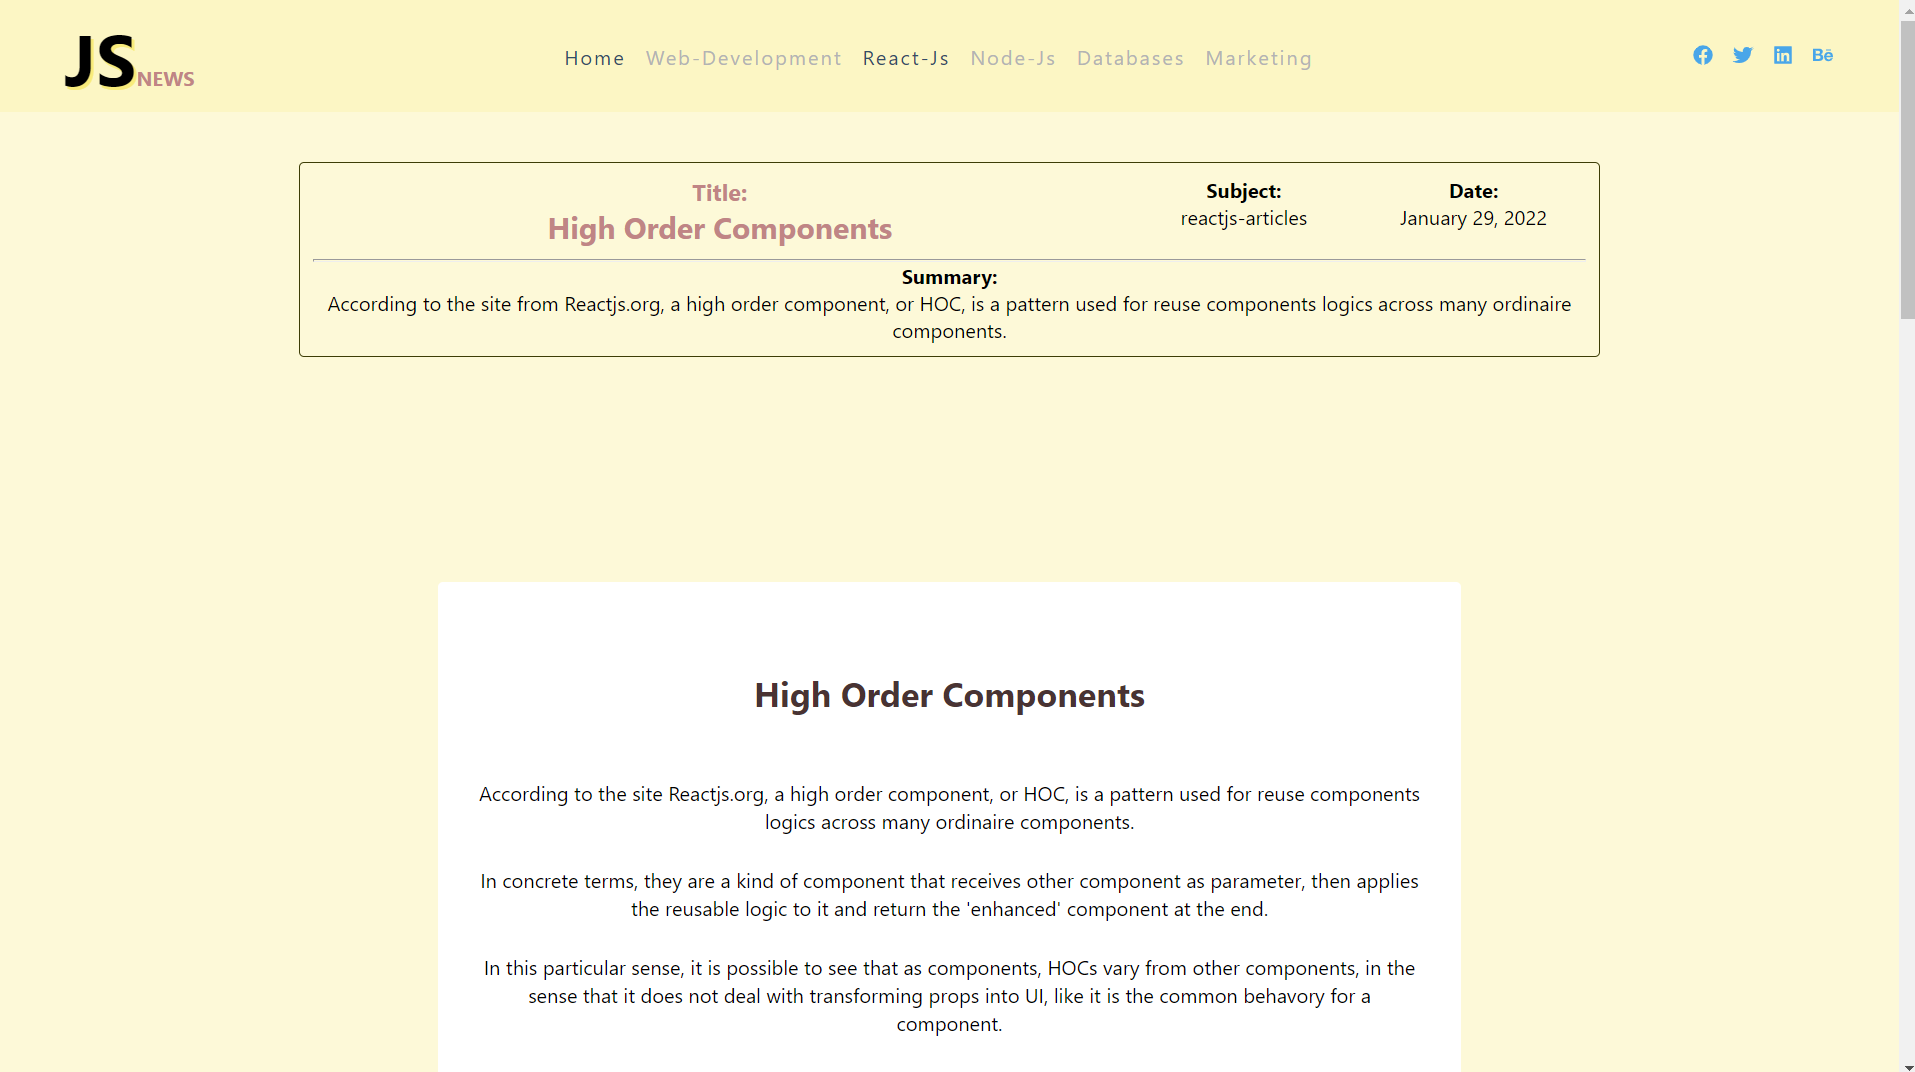
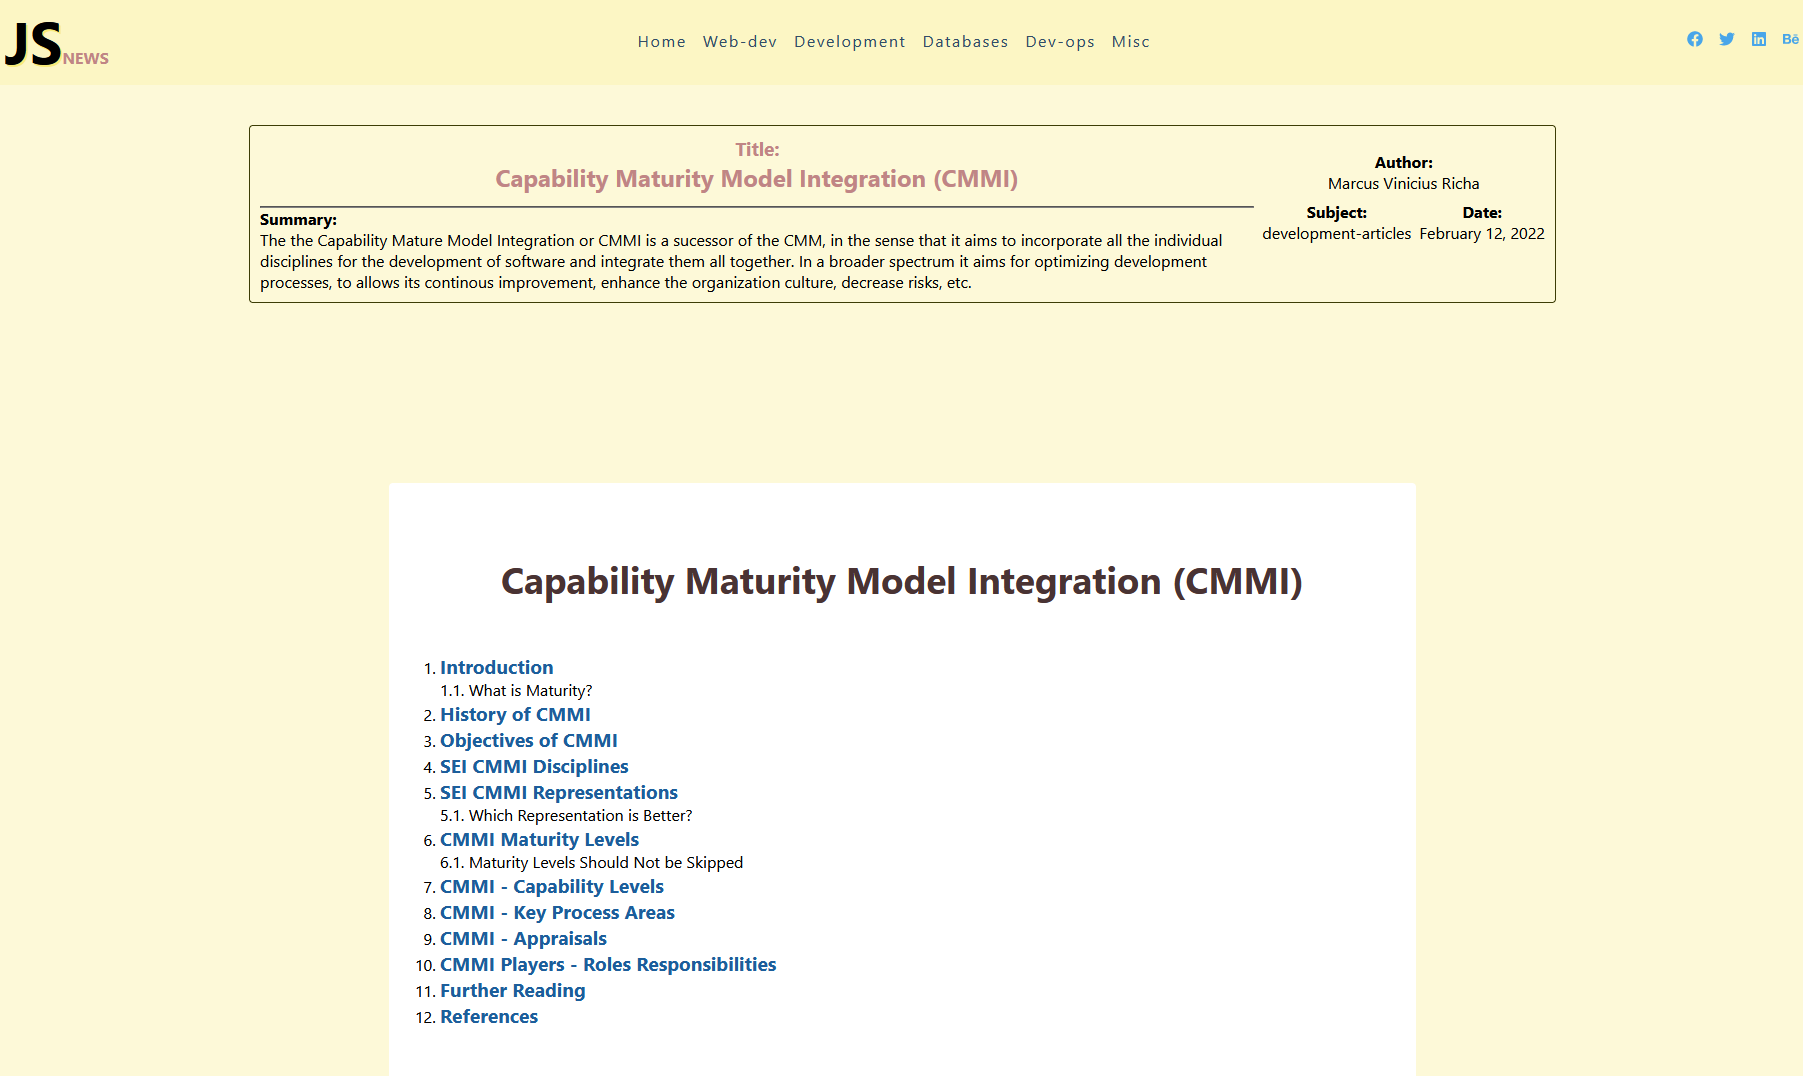
Mudar imagem do projeto blog.

diff --git a/src/data/frontendProjects.js b/src/data/frontendProjects.js
@@ -3,8 +3,8 @@ export let frontendProjects = [
 		title: 'Next-JS JSnews Blog',
 		urlRepository: 'https://github.com/ahoymarcus/nextjs-myjs-tech-blog',
 		urlApp: 'https://nextjs-myjs-tech-blog.vercel.app/',
-		image: '/images/frontend/nextjs-myjs-tech-blog-04.png',
-		description: 'My personal blog with articles and informations about JavaScript and Web Development.',
+		image: '/images/frontend/nextjs-myjs-tech-blog-01.png',
+		description: 'My personal blog with articles and informations about Development, specilly the technologies related to the Web and with JavaScript, React-JS, Node-JS, and the rest of its stack.',
 		tags: ['react-js', 'next-js', 'gray-matter', 'remark', 'remark-html', 'date-fns'],
 	},{
 		title: 'Rocket Launches App',

diff --git a/src/data/mainProjects.js b/src/data/mainProjects.js
@@ -3,8 +3,8 @@ export let mainProjects = [
 		title: 'Next-JS JSnews Blog',
 		urlRepository: 'https://github.com/ahoymarcus/nextjs-myjs-tech-blog',
 		urlApp: 'https://nextjs-myjs-tech-blog.vercel.app/',
-		image: '/images/frontend/nextjs-myjs-tech-blog-04.png',
-		description: 'My personal blog with articles and informations about JavaScript and Web Development.',
+		image: '/images/frontend/nextjs-myjs-tech-blog-01.png',
+		description: 'My personal blog with articles and informations about Development, specilly the technologies related to the Web and with JavaScript, React-JS, Node-JS, and the rest of its stack.',
 		tags: ['react-js', 'next-js', 'gray-matter', 'remark', 'remark-html', 'date-fns'],
 	},{
 		title: 'Rocket Launches App',
